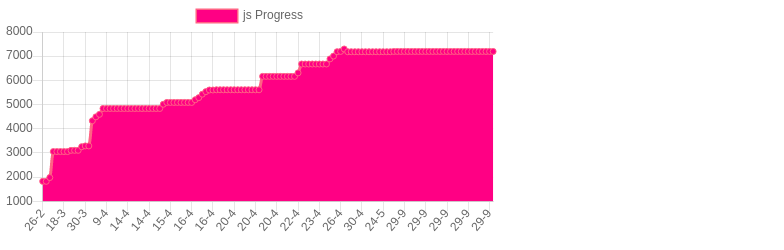
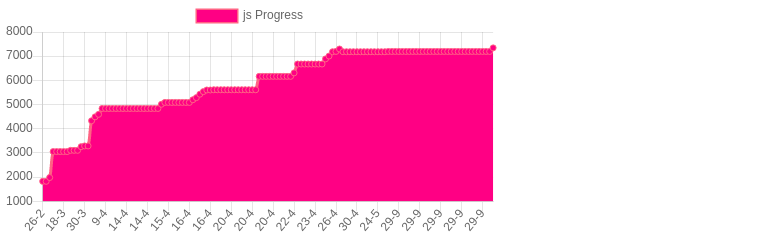
ruby and js

Changed region(s): [[0.0612, 0.812, 0.6429, 0.924], [0.0612, 0.14, 0.3367, 0.616], [0.3673, 0.14, 0.6429, 0.308]]

diff --git a/total.html b/total.html
@@ -9,7 +9,7 @@
         <script src="https://cdn.jsdelivr.net/npm/chart.js@2.8.0"></script>
         <script>
           var ctx = document.getElementById("total").getContext("2d");
-          const goLabelsDates = ["2021-02-27T01:37:43.112Z","2021-02-27T01:38:01.628Z","2021-03-01T13:41:18.753Z","2021-03-01T14:53:41.991Z","2021-03-01T15:08:00.851Z","2021-03-01T15:09:10.635Z","2021-03-01T15:22:55.385Z","2021-03-03T15:31:41.151Z","2021-03-05T14:02:13.446Z","2021-03-10T14:50:13.297Z","2021-03-11T01:54:03.424Z","2021-03-11T15:32:47.647Z","2021-03-11T16:01:51.191Z","2021-03-12T00:36:04.646Z","2021-03-13T00:14:58.179Z","2021-03-16T05:30:04.043Z","2021-03-17T21:17:52.181Z","2021-03-18T03:42:56.998Z","2021-03-18T03:44:29.834Z","2021-03-18T03:45:35.160Z","2021-03-18T03:45:54.668Z","2021-03-18T03:48:46.007Z","2021-03-18T05:10:54.427Z","2021-03-18T05:44:13.724Z","2021-03-18T05:56:11.032Z","2021-03-18T22:11:28.339Z","2021-03-19T11:28:55.383Z","2021-03-22T13:51:43.977Z","2021-03-23T01:52:09.452Z","2021-03-23T15:45:53.765Z","2021-03-24T01:46:02.104Z","2021-03-30T10:56:50.711Z","2021-04-01T15:03:17.764Z","2021-04-01T23:15:02.096Z","2021-04-07T19:21:55.040Z","2021-04-08T15:21:14.479Z","2021-04-09T23:17:58.037Z","2021-04-09T23:32:26.341Z","2021-04-09T23:34:42.049Z","2021-04-09T23:36:18.092Z","2021-04-10T01:45:40.218Z","2021-04-12T15:41:26.676Z","2021-04-14T02:00:41.039Z","2021-04-14T20:02:44.141Z","2021-04-14T21:14:15.821Z","2021-04-14T22:06:37.573Z","2021-04-14T22:42:14.693Z","2021-04-14T23:10:13.243Z","2021-04-14T23:22:54.824Z","2021-04-14T23:49:37.009Z","2021-04-15T02:28:51.974Z","2021-04-15T14:33:50.618Z","2021-04-15T15:09:11.104Z","2021-04-15T20:35:30.580Z","2021-04-16T00:04:33.158Z","2021-04-16T01:36:06.294Z","2021-04-16T01:53:35.992Z","2021-04-16T02:00:15.474Z","2021-04-16T16:08:40.977Z","2021-04-16T16:27:06.953Z","2021-04-16T16:59:30.526Z","2021-04-16T17:00:53.737Z","2021-04-16T23:14:36.283Z","2021-04-17T00:39:16.890Z","2021-04-17T01:11:09.986Z","2021-04-17T01:32:30.011Z","2021-04-17T01:44:22.446Z","2021-04-17T01:44:33.941Z","2021-04-17T02:35:55.774Z","2021-04-19T15:41:31.091Z","2021-04-20T15:32:32.239Z","2021-04-20T15:33:16.014Z","2021-04-20T15:36:11.438Z","2021-04-20T15:38:44.606Z","2021-04-20T15:41:50.350Z","2021-04-20T15:44:34.448Z","2021-04-20T15:46:49.295Z","2021-04-20T15:47:24.048Z","2021-04-20T15:56:22.046Z","2021-04-20T16:00:02.540Z","2021-04-20T16:01:15.511Z","2021-04-20T23:19:23.938Z","2021-04-21T00:40:54.443Z","2021-04-21T00:47:22.662Z","2021-04-21T02:01:09.006Z","2021-04-21T02:19:22.734Z","2021-04-21T15:53:36.038Z","2021-04-21T16:21:45.704Z","2021-04-21T16:26:32.790Z","2021-04-21T16:40:24.916Z","2021-04-21T16:43:40.235Z","2021-04-21T16:43:59.719Z","2021-04-21T16:44:40.304Z","2021-04-21T16:46:13.191Z","2021-04-21T16:48:41.898Z","2021-04-21T16:49:08.753Z","2021-04-21T16:50:32.397Z","2021-04-21T16:51:58.778Z","2021-04-23T00:49:32.826Z","2021-04-23T15:03:06.320Z","2021-04-23T15:04:13.039Z","2021-04-23T15:05:25.923Z","2021-04-23T15:11:04.285Z","2021-04-23T15:11:38.826Z","2021-04-23T15:12:05.618Z","2021-04-23T15:12:32.508Z","2021-04-23T15:13:17.058Z","2021-04-23T17:08:27.046Z","2021-04-23T18:02:30.357Z","2021-04-23T22:58:36.946Z","2021-04-23T23:00:26.027Z","2021-04-23T23:52:58.438Z","2021-04-24T01:12:51.525Z","2021-04-24T02:01:46.612Z","2021-04-26T12:46:47.336Z","2021-04-26T13:13:50.946Z","2021-04-26T13:16:04.473Z","2021-04-27T00:11:42.582Z","2021-04-30T03:26:37.101Z","2021-04-30T04:33:42.472Z","2021-04-30T05:15:42.646Z","2021-04-30T14:31:10.927Z","2021-05-04T01:51:49.907Z","2021-05-21T00:30:21.777Z","2021-05-24T15:07:09.579Z","2021-05-24T15:08:05.658Z","2021-05-24T15:22:20.903Z","2021-05-24T15:33:34.626Z","2021-05-24T15:46:16.101Z","2021-05-24T15:48:12.171Z","2021-05-24T15:53:54.498Z","2021-05-24T15:56:18.488Z","2021-05-28T22:50:32.914Z","2021-06-02T17:58:30.866Z","2021-07-01T05:04:25.826Z","2021-07-01T05:05:33.079Z","2021-09-03T16:56:54.023Z","2021-09-23T00:10:19.737Z","2021-09-23T00:54:30.987Z","2021-09-25T00:13:33.106Z","2021-09-25T00:56:09.874Z","2021-09-29T20:37:10.460Z","2021-09-29T20:39:45.107Z","2021-09-29T20:45:08.406Z","2021-09-29T20:45:42.995Z","2021-09-29T20:51:54.166Z","2021-09-29T21:04:45.487Z","2021-09-29T21:22:49.580Z","2021-09-29T21:23:34.860Z","2021-09-29T21:24:52.804Z","2021-09-29T21:25:12.938Z","2021-09-29T21:31:41.466Z","2021-09-29T21:32:02.856Z","2021-09-29T21:32:15.096Z","2021-09-29T21:37:01.273Z","2021-09-29T21:39:46.109Z","2021-09-29T21:40:23.862Z","2021-09-29T21:41:38.242Z","2021-09-29T21:45:36.053Z","2021-09-29T21:48:31.229Z","2021-09-29T21:49:46.414Z","2021-09-29T21:50:16.628Z","2021-09-29T21:52:23.035Z","2021-09-29T21:58:46.153Z","2021-09-29T21:59:06.075Z","2021-09-29T22:09:34.545Z","2021-09-29T22:24:59.487Z","2021-09-29T22:39:38.616Z","2021-09-29T23:07:40.178Z","2021-10-01T13:21:48.217Z","2021-10-01T14:11:47.682Z","2021-10-05T00:24:42.303Z",];
+          const goLabelsDates = ["2021-02-27T01:37:43.112Z","2021-02-27T01:38:01.628Z","2021-03-01T13:41:18.753Z","2021-03-01T14:53:41.991Z","2021-03-01T15:08:00.851Z","2021-03-01T15:09:10.635Z","2021-03-01T15:22:55.385Z","2021-03-03T15:31:41.151Z","2021-03-05T14:02:13.446Z","2021-03-10T14:50:13.297Z","2021-03-11T01:54:03.424Z","2021-03-11T15:32:47.647Z","2021-03-11T16:01:51.191Z","2021-03-12T00:36:04.646Z","2021-03-13T00:14:58.179Z","2021-03-16T05:30:04.043Z","2021-03-17T21:17:52.181Z","2021-03-18T03:42:56.998Z","2021-03-18T03:44:29.834Z","2021-03-18T03:45:35.160Z","2021-03-18T03:45:54.668Z","2021-03-18T03:48:46.007Z","2021-03-18T05:10:54.427Z","2021-03-18T05:44:13.724Z","2021-03-18T05:56:11.032Z","2021-03-18T22:11:28.339Z","2021-03-19T11:28:55.383Z","2021-03-22T13:51:43.977Z","2021-03-23T01:52:09.452Z","2021-03-23T15:45:53.765Z","2021-03-24T01:46:02.104Z","2021-03-30T10:56:50.711Z","2021-04-01T15:03:17.764Z","2021-04-01T23:15:02.096Z","2021-04-07T19:21:55.040Z","2021-04-08T15:21:14.479Z","2021-04-09T23:17:58.037Z","2021-04-09T23:32:26.341Z","2021-04-09T23:34:42.049Z","2021-04-09T23:36:18.092Z","2021-04-10T01:45:40.218Z","2021-04-12T15:41:26.676Z","2021-04-14T02:00:41.039Z","2021-04-14T20:02:44.141Z","2021-04-14T21:14:15.821Z","2021-04-14T22:06:37.573Z","2021-04-14T22:42:14.693Z","2021-04-14T23:10:13.243Z","2021-04-14T23:22:54.824Z","2021-04-14T23:49:37.009Z","2021-04-15T02:28:51.974Z","2021-04-15T14:33:50.618Z","2021-04-15T15:09:11.104Z","2021-04-15T20:35:30.580Z","2021-04-16T00:04:33.158Z","2021-04-16T01:36:06.294Z","2021-04-16T01:53:35.992Z","2021-04-16T02:00:15.474Z","2021-04-16T16:08:40.977Z","2021-04-16T16:27:06.953Z","2021-04-16T16:59:30.526Z","2021-04-16T17:00:53.737Z","2021-04-16T23:14:36.283Z","2021-04-17T00:39:16.890Z","2021-04-17T01:11:09.986Z","2021-04-17T01:32:30.011Z","2021-04-17T01:44:22.446Z","2021-04-17T01:44:33.941Z","2021-04-17T02:35:55.774Z","2021-04-19T15:41:31.091Z","2021-04-20T15:32:32.239Z","2021-04-20T15:33:16.014Z","2021-04-20T15:36:11.438Z","2021-04-20T15:38:44.606Z","2021-04-20T15:41:50.350Z","2021-04-20T15:44:34.448Z","2021-04-20T15:46:49.295Z","2021-04-20T15:47:24.048Z","2021-04-20T15:56:22.046Z","2021-04-20T16:00:02.540Z","2021-04-20T16:01:15.511Z","2021-04-20T23:19:23.938Z","2021-04-21T00:40:54.443Z","2021-04-21T00:47:22.662Z","2021-04-21T02:01:09.006Z","2021-04-21T02:19:22.734Z","2021-04-21T15:53:36.038Z","2021-04-21T16:21:45.704Z","2021-04-21T16:26:32.790Z","2021-04-21T16:40:24.916Z","2021-04-21T16:43:40.235Z","2021-04-21T16:43:59.719Z","2021-04-21T16:44:40.304Z","2021-04-21T16:46:13.191Z","2021-04-21T16:48:41.898Z","2021-04-21T16:49:08.753Z","2021-04-21T16:50:32.397Z","2021-04-21T16:51:58.778Z","2021-04-23T00:49:32.826Z","2021-04-23T15:03:06.320Z","2021-04-23T15:04:13.039Z","2021-04-23T15:05:25.923Z","2021-04-23T15:11:04.285Z","2021-04-23T15:11:38.826Z","2021-04-23T15:12:05.618Z","2021-04-23T15:12:32.508Z","2021-04-23T15:13:17.058Z","2021-04-23T17:08:27.046Z","2021-04-23T18:02:30.357Z","2021-04-23T22:58:36.946Z","2021-04-23T23:00:26.027Z","2021-04-23T23:52:58.438Z","2021-04-24T01:12:51.525Z","2021-04-24T02:01:46.612Z","2021-04-26T12:46:47.336Z","2021-04-26T13:13:50.946Z","2021-04-26T13:16:04.473Z","2021-04-27T00:11:42.582Z","2021-04-30T03:26:37.101Z","2021-04-30T04:33:42.472Z","2021-04-30T05:15:42.646Z","2021-04-30T14:31:10.927Z","2021-05-04T01:51:49.907Z","2021-05-21T00:30:21.777Z","2021-05-24T15:07:09.579Z","2021-05-24T15:08:05.658Z","2021-05-24T15:22:20.903Z","2021-05-24T15:33:34.626Z","2021-05-24T15:46:16.101Z","2021-05-24T15:48:12.171Z","2021-05-24T15:53:54.498Z","2021-05-24T15:56:18.488Z","2021-05-28T22:50:32.914Z","2021-06-02T17:58:30.866Z","2021-07-01T05:04:25.826Z","2021-07-01T05:05:33.079Z","2021-09-03T16:56:54.023Z","2021-09-23T00:10:19.737Z","2021-09-23T00:54:30.987Z","2021-09-25T00:13:33.106Z","2021-09-25T00:56:09.874Z","2021-09-29T20:37:10.460Z","2021-09-29T20:39:45.107Z","2021-09-29T20:45:08.406Z","2021-09-29T20:45:42.995Z","2021-09-29T20:51:54.166Z","2021-09-29T21:04:45.487Z","2021-09-29T21:22:49.580Z","2021-09-29T21:23:34.860Z","2021-09-29T21:24:52.804Z","2021-09-29T21:25:12.938Z","2021-09-29T21:31:41.466Z","2021-09-29T21:32:02.856Z","2021-09-29T21:32:15.096Z","2021-09-29T21:37:01.273Z","2021-09-29T21:39:46.109Z","2021-09-29T21:40:23.862Z","2021-09-29T21:41:38.242Z","2021-09-29T21:45:36.053Z","2021-09-29T21:48:31.229Z","2021-09-29T21:49:46.414Z","2021-09-29T21:50:16.628Z","2021-09-29T21:52:23.035Z","2021-09-29T21:58:46.153Z","2021-09-29T21:59:06.075Z","2021-09-29T22:09:34.545Z","2021-09-29T22:24:59.487Z","2021-09-29T22:39:38.616Z","2021-09-29T23:07:40.178Z","2021-10-01T13:21:48.217Z","2021-10-01T14:11:47.682Z","2021-10-05T00:24:42.303Z","2021-10-05T14:36:34.233Z","2021-10-05T15:30:47.628Z",];
           var chart = new Chart(ctx, {
             type: 'line',
             data: {
@@ -18,7 +18,7 @@
                 label: 'total Progress',
                 backgroundColor: 'rgb(255, 0, 132)',
                 borderColor: 'rgb(255, 99, 132)',
-                data: [7975,7975,8307,8526,8526,8527,8573,9171,9358,9751,9908,10232,10231,10643,10911,11353,12576,12666,0,0,169,12835,12906,12953,12953,13141,13254,13354,13406,13417,13568,13708,13845,14886,15140,15267,15766,15777,15777,15777,16211,16345,17062,17247,17324,17464,17697,17849,17916,18002,18002,18202,18292,18515,18590,18744,18837,18876,19030,19086,19114,19143,19378,19465,19607,19714,19782,19782,19791,20220,20257,20257,20257,20257,20257,20257,20257,20257,20257,20257,20257,21179,21238,21279,21319,21319,21430,21506,21543,65995,0,44452,44452,44452,20233,20233,1629,23172,23326,23693,23693,23693,23693,23693,23693,23693,23693,23693,23693,23693,23693,23905,24023,24262,24275,24376,24376,24452,25078,25182,25238,25232,25233,25334,23696,25427,25453,25466,25491,11565,5707,5707,4421,4535,4535,3678,3678,3678,5861,5318,5422,5473,12667,12667,12667,12667,12667,12667,12667,12667,12667,12667,12667,12667,12667,12667,12667,12667,12667,12667,12658,12658,12657,12657,12657,12657,12683,12736,12779,12888,2619,2775,]
+                data: [7975,7975,8307,8526,8526,8527,8573,9171,9358,9751,9908,10232,10231,10643,10911,11353,12576,12666,0,0,169,12835,12906,12953,12953,13141,13254,13354,13406,13417,13568,13708,13845,14886,15140,15267,15766,15777,15777,15777,16211,16345,17062,17247,17324,17464,17697,17849,17916,18002,18002,18202,18292,18515,18590,18744,18837,18876,19030,19086,19114,19143,19378,19465,19607,19714,19782,19782,19791,20220,20257,20257,20257,20257,20257,20257,20257,20257,20257,20257,20257,21179,21238,21279,21319,21319,21430,21506,21543,65995,0,44452,44452,44452,20233,20233,1629,23172,23326,23693,23693,23693,23693,23693,23693,23693,23693,23693,23693,23693,23693,23905,24023,24262,24275,24376,24376,24452,25078,25182,25238,25232,25233,25334,23696,25427,25453,25466,25491,11565,5707,5707,4421,4535,4535,3678,3678,3678,5861,5318,5422,5473,12667,12667,12667,12667,12667,12667,12667,12667,12667,12667,12667,12667,12667,12667,12667,12667,12667,12667,12658,12658,12657,12657,12657,12657,12683,12736,12779,12888,2619,2775,9772,9922,]
               }]
             },
           });

diff --git a/js.html b/js.html
@@ -9,7 +9,7 @@
         <script src="https://cdn.jsdelivr.net/npm/chart.js@2.8.0"></script>
         <script>
           var ctx = document.getElementById("js").getContext("2d");
-          const goLabelsDates = ["2021-02-27T01:37:43.110Z","2021-02-27T01:38:01.626Z","2021-03-11T01:54:03.422Z","2021-03-17T21:17:52.179Z","2021-03-18T05:44:13.723Z","2021-03-18T05:56:11.032Z","2021-03-18T22:11:28.338Z","2021-03-19T11:28:55.382Z","2021-03-22T13:51:43.976Z","2021-03-23T01:52:09.451Z","2021-03-23T15:45:53.764Z","2021-03-24T01:46:02.103Z","2021-03-30T10:56:50.709Z","2021-04-01T15:03:17.762Z","2021-04-01T23:15:02.094Z","2021-04-07T19:21:55.038Z","2021-04-08T15:21:14.478Z","2021-04-09T23:17:58.035Z","2021-04-09T23:32:26.339Z","2021-04-09T23:34:42.047Z","2021-04-09T23:36:18.091Z","2021-04-10T01:45:40.217Z","2021-04-12T15:41:26.675Z","2021-04-14T02:00:41.038Z","2021-04-14T20:02:44.140Z","2021-04-14T21:14:15.820Z","2021-04-14T22:06:37.572Z","2021-04-14T22:42:14.692Z","2021-04-14T23:10:13.242Z","2021-04-14T23:22:54.823Z","2021-04-14T23:49:37.008Z","2021-04-15T02:28:51.973Z","2021-04-15T14:33:50.618Z","2021-04-15T15:09:11.102Z","2021-04-15T20:35:30.579Z","2021-04-16T00:04:33.157Z","2021-04-16T01:36:06.293Z","2021-04-16T01:53:35.990Z","2021-04-16T02:00:15.472Z","2021-04-16T16:08:40.975Z","2021-04-16T16:27:06.951Z","2021-04-16T16:59:30.524Z","2021-04-16T17:00:53.732Z","2021-04-16T23:14:36.282Z","2021-04-17T00:39:16.888Z","2021-04-17T01:11:09.984Z","2021-04-17T01:32:30.007Z","2021-04-17T01:44:22.442Z","2021-04-17T01:44:33.939Z","2021-04-17T02:35:55.772Z","2021-04-19T15:41:31.090Z","2021-04-20T15:32:32.237Z","2021-04-20T15:33:16.013Z","2021-04-20T15:36:11.437Z","2021-04-20T15:38:44.605Z","2021-04-20T15:41:50.349Z","2021-04-20T15:44:34.447Z","2021-04-20T15:46:49.293Z","2021-04-20T15:47:24.046Z","2021-04-20T15:56:22.045Z","2021-04-20T16:00:02.539Z","2021-04-20T16:01:15.510Z","2021-04-20T23:19:23.937Z","2021-04-21T00:40:54.442Z","2021-04-21T00:47:22.661Z","2021-04-21T02:01:09.004Z","2021-04-21T02:19:22.733Z","2021-04-21T15:53:36.037Z","2021-04-21T16:21:45.703Z","2021-04-21T16:26:32.789Z","2021-04-21T16:40:24.915Z","2021-04-21T16:51:58.777Z","2021-04-23T00:49:32.825Z","2021-04-23T15:03:06.327Z","2021-04-23T15:04:13.044Z","2021-04-23T15:05:25.922Z","2021-04-23T15:13:17.062Z","2021-04-23T17:08:27.043Z","2021-04-23T18:02:30.352Z","2021-04-23T22:58:36.943Z","2021-04-23T23:00:26.025Z","2021-04-23T23:52:58.436Z","2021-04-24T01:12:51.523Z","2021-04-24T02:01:46.609Z","2021-04-26T12:46:47.335Z","2021-04-26T13:13:50.943Z","2021-04-26T13:16:04.470Z","2021-04-27T00:11:42.579Z","2021-04-30T03:26:37.096Z","2021-04-30T04:33:42.471Z","2021-04-30T05:15:42.644Z","2021-04-30T14:31:10.924Z","2021-05-04T01:51:49.905Z","2021-05-21T00:30:21.768Z","2021-05-24T15:07:09.571Z","2021-05-24T15:08:05.656Z","2021-05-24T15:22:20.900Z","2021-05-24T15:33:34.624Z","2021-05-24T15:46:16.099Z","2021-09-29T20:39:45.105Z","2021-09-29T20:45:08.404Z","2021-09-29T20:45:42.992Z","2021-09-29T20:51:54.164Z","2021-09-29T21:04:45.485Z","2021-09-29T21:22:49.578Z","2021-09-29T21:23:34.858Z","2021-09-29T21:24:52.802Z","2021-09-29T21:25:12.936Z","2021-09-29T21:31:41.463Z","2021-09-29T21:32:02.853Z","2021-09-29T21:32:15.093Z","2021-09-29T21:36:24.777Z","2021-09-29T21:37:01.271Z","2021-09-29T21:39:46.105Z","2021-09-29T21:40:23.859Z","2021-09-29T21:41:38.228Z","2021-09-29T21:45:36.048Z","2021-09-29T21:48:31.220Z","2021-09-29T21:49:46.410Z","2021-09-29T21:50:16.622Z","2021-09-29T21:52:23.030Z","2021-09-29T21:58:46.149Z","2021-09-29T21:59:06.071Z","2021-09-29T22:09:34.540Z","2021-09-29T22:24:59.483Z","2021-09-29T22:39:38.612Z","2021-09-29T23:07:40.174Z","2021-10-01T13:21:48.212Z",];
+          const goLabelsDates = ["2021-02-27T01:37:43.110Z","2021-02-27T01:38:01.626Z","2021-03-11T01:54:03.422Z","2021-03-17T21:17:52.179Z","2021-03-18T05:44:13.723Z","2021-03-18T05:56:11.032Z","2021-03-18T22:11:28.338Z","2021-03-19T11:28:55.382Z","2021-03-22T13:51:43.976Z","2021-03-23T01:52:09.451Z","2021-03-23T15:45:53.764Z","2021-03-24T01:46:02.103Z","2021-03-30T10:56:50.709Z","2021-04-01T15:03:17.762Z","2021-04-01T23:15:02.094Z","2021-04-07T19:21:55.038Z","2021-04-08T15:21:14.478Z","2021-04-09T23:17:58.035Z","2021-04-09T23:32:26.339Z","2021-04-09T23:34:42.047Z","2021-04-09T23:36:18.091Z","2021-04-10T01:45:40.217Z","2021-04-12T15:41:26.675Z","2021-04-14T02:00:41.038Z","2021-04-14T20:02:44.140Z","2021-04-14T21:14:15.820Z","2021-04-14T22:06:37.572Z","2021-04-14T22:42:14.692Z","2021-04-14T23:10:13.242Z","2021-04-14T23:22:54.823Z","2021-04-14T23:49:37.008Z","2021-04-15T02:28:51.973Z","2021-04-15T14:33:50.618Z","2021-04-15T15:09:11.102Z","2021-04-15T20:35:30.579Z","2021-04-16T00:04:33.157Z","2021-04-16T01:36:06.293Z","2021-04-16T01:53:35.990Z","2021-04-16T02:00:15.472Z","2021-04-16T16:08:40.975Z","2021-04-16T16:27:06.951Z","2021-04-16T16:59:30.524Z","2021-04-16T17:00:53.732Z","2021-04-16T23:14:36.282Z","2021-04-17T00:39:16.888Z","2021-04-17T01:11:09.984Z","2021-04-17T01:32:30.007Z","2021-04-17T01:44:22.442Z","2021-04-17T01:44:33.939Z","2021-04-17T02:35:55.772Z","2021-04-19T15:41:31.090Z","2021-04-20T15:32:32.237Z","2021-04-20T15:33:16.013Z","2021-04-20T15:36:11.437Z","2021-04-20T15:38:44.605Z","2021-04-20T15:41:50.349Z","2021-04-20T15:44:34.447Z","2021-04-20T15:46:49.293Z","2021-04-20T15:47:24.046Z","2021-04-20T15:56:22.045Z","2021-04-20T16:00:02.539Z","2021-04-20T16:01:15.510Z","2021-04-20T23:19:23.937Z","2021-04-21T00:40:54.442Z","2021-04-21T00:47:22.661Z","2021-04-21T02:01:09.004Z","2021-04-21T02:19:22.733Z","2021-04-21T15:53:36.037Z","2021-04-21T16:21:45.703Z","2021-04-21T16:26:32.789Z","2021-04-21T16:40:24.915Z","2021-04-21T16:51:58.777Z","2021-04-23T00:49:32.825Z","2021-04-23T15:03:06.327Z","2021-04-23T15:04:13.044Z","2021-04-23T15:05:25.922Z","2021-04-23T15:13:17.062Z","2021-04-23T17:08:27.043Z","2021-04-23T18:02:30.352Z","2021-04-23T22:58:36.943Z","2021-04-23T23:00:26.025Z","2021-04-23T23:52:58.436Z","2021-04-24T01:12:51.523Z","2021-04-24T02:01:46.609Z","2021-04-26T12:46:47.335Z","2021-04-26T13:13:50.943Z","2021-04-26T13:16:04.470Z","2021-04-27T00:11:42.579Z","2021-04-30T03:26:37.096Z","2021-04-30T04:33:42.471Z","2021-04-30T05:15:42.644Z","2021-04-30T14:31:10.924Z","2021-05-04T01:51:49.905Z","2021-05-21T00:30:21.768Z","2021-05-24T15:07:09.571Z","2021-05-24T15:08:05.656Z","2021-05-24T15:22:20.900Z","2021-05-24T15:33:34.624Z","2021-05-24T15:46:16.099Z","2021-09-29T20:39:45.105Z","2021-09-29T20:45:08.404Z","2021-09-29T20:45:42.992Z","2021-09-29T20:51:54.164Z","2021-09-29T21:04:45.485Z","2021-09-29T21:22:49.578Z","2021-09-29T21:23:34.858Z","2021-09-29T21:24:52.802Z","2021-09-29T21:25:12.936Z","2021-09-29T21:31:41.463Z","2021-09-29T21:32:02.853Z","2021-09-29T21:32:15.093Z","2021-09-29T21:36:24.777Z","2021-09-29T21:37:01.271Z","2021-09-29T21:39:46.105Z","2021-09-29T21:40:23.859Z","2021-09-29T21:41:38.228Z","2021-09-29T21:45:36.048Z","2021-09-29T21:48:31.220Z","2021-09-29T21:49:46.410Z","2021-09-29T21:50:16.622Z","2021-09-29T21:52:23.030Z","2021-09-29T21:58:46.149Z","2021-09-29T21:59:06.071Z","2021-09-29T22:09:34.540Z","2021-09-29T22:24:59.483Z","2021-09-29T22:39:38.612Z","2021-09-29T23:07:40.174Z","2021-10-01T13:21:48.212Z","2021-10-05T14:36:34.229Z","2021-10-05T15:30:47.625Z",];
           var chart = new Chart(ctx, {
             type: 'line',
             data: {
@@ -18,7 +18,7 @@
                 label: 'js Progress',
                 backgroundColor: 'rgb(255, 0, 132)',
                 borderColor: 'rgb(255, 99, 132)',
-                data: [1822,1822,1979,3053,3053,3053,3053,3053,3104,3104,3104,3255,3287,3287,4328,4490,4593,4835,4835,4835,4835,4835,4835,4835,4835,4835,4835,4835,4835,4835,4835,4835,4835,4835,5010,5085,5085,5085,5085,5085,5085,5085,5085,5197,5284,5426,5533,5601,5601,5610,5610,5610,5610,5610,5610,5610,5610,5610,5610,5610,5610,5610,6164,6164,6164,6164,6164,6164,6164,6164,6164,6164,6308,6675,6675,6675,6675,6675,6675,6675,6675,6887,7005,7183,7196,7297,7183,7183,7183,7183,7183,7183,7183,7183,7183,7183,7183,7183,7183,7194,7194,7194,7194,7194,7194,7194,7194,7194,7194,7194,7194,7194,7194,7194,7194,7194,7194,7194,7194,7194,7194,7194,7194,7194,7194,7194,7194,7194,]
+                data: [1822,1822,1979,3053,3053,3053,3053,3053,3104,3104,3104,3255,3287,3287,4328,4490,4593,4835,4835,4835,4835,4835,4835,4835,4835,4835,4835,4835,4835,4835,4835,4835,4835,4835,5010,5085,5085,5085,5085,5085,5085,5085,5085,5197,5284,5426,5533,5601,5601,5610,5610,5610,5610,5610,5610,5610,5610,5610,5610,5610,5610,5610,6164,6164,6164,6164,6164,6164,6164,6164,6164,6164,6308,6675,6675,6675,6675,6675,6675,6675,6675,6887,7005,7183,7196,7297,7183,7183,7183,7183,7183,7183,7183,7183,7183,7183,7183,7183,7183,7194,7194,7194,7194,7194,7194,7194,7194,7194,7194,7194,7194,7194,7194,7194,7194,7194,7194,7194,7194,7194,7194,7194,7194,7194,7194,7194,7194,7194,7194,7344,]
               }]
             },
           });

diff --git a/ruby.html b/ruby.html
@@ -9,7 +9,7 @@
         <script src="https://cdn.jsdelivr.net/npm/chart.js@2.8.0"></script>
         <script>
           var ctx = document.getElementById("ruby").getContext("2d");
-          const goLabelsDates = ["2021-02-27T01:37:43.111Z","2021-02-27T01:38:01.627Z","2021-03-03T15:31:41.151Z","2021-03-12T00:36:04.646Z","2021-03-13T00:14:58.178Z","2021-03-16T05:30:04.043Z","2021-03-18T05:44:13.724Z","2021-03-18T05:56:11.032Z","2021-03-18T22:11:28.339Z","2021-03-19T11:28:55.382Z","2021-03-22T13:51:43.976Z","2021-03-23T01:52:09.451Z","2021-03-23T15:45:53.764Z","2021-03-24T01:46:02.103Z","2021-03-30T10:56:50.710Z","2021-04-01T15:03:17.763Z","2021-04-01T23:15:02.095Z","2021-04-07T19:21:55.039Z","2021-04-08T15:21:14.478Z","2021-04-09T23:17:58.036Z","2021-04-09T23:32:26.340Z","2021-04-09T23:34:42.048Z","2021-04-09T23:36:18.092Z","2021-04-10T01:45:40.217Z","2021-04-12T15:41:26.675Z","2021-04-14T02:00:41.039Z","2021-04-14T20:02:44.140Z","2021-04-14T21:14:15.820Z","2021-04-14T22:06:37.573Z","2021-04-14T22:42:14.693Z","2021-04-14T23:10:13.243Z","2021-04-14T23:22:54.824Z","2021-04-14T23:49:37.009Z","2021-04-15T02:28:51.974Z","2021-04-15T14:33:50.618Z","2021-04-15T15:09:11.103Z","2021-04-15T20:35:30.579Z","2021-04-16T00:04:33.157Z","2021-04-16T01:36:06.293Z","2021-04-16T01:53:35.991Z","2021-04-16T02:00:15.473Z","2021-04-16T16:08:40.976Z","2021-04-16T16:27:06.952Z","2021-04-16T16:59:30.525Z","2021-04-16T17:00:53.733Z","2021-04-16T23:14:36.282Z","2021-04-17T00:39:16.888Z","2021-04-17T01:11:09.985Z","2021-04-17T01:32:30.008Z","2021-04-17T01:44:22.445Z","2021-04-17T01:44:33.940Z","2021-04-17T02:35:55.773Z","2021-04-19T15:41:31.090Z","2021-04-20T15:32:32.238Z","2021-04-20T15:33:16.013Z","2021-04-20T15:36:11.438Z","2021-04-20T15:38:44.605Z","2021-04-20T15:41:50.349Z","2021-04-20T15:44:34.447Z","2021-04-20T15:46:49.294Z","2021-04-20T15:47:24.047Z","2021-04-20T15:56:22.045Z","2021-04-20T16:00:02.539Z","2021-04-20T16:01:15.511Z","2021-04-20T23:19:23.937Z","2021-04-21T00:40:54.442Z","2021-04-21T00:47:22.661Z","2021-04-21T02:01:09.005Z","2021-04-21T02:19:22.734Z","2021-04-21T15:53:36.037Z","2021-04-21T16:21:45.703Z","2021-04-21T16:26:32.789Z","2021-04-21T16:40:24.916Z","2021-04-21T16:51:58.777Z","2021-04-23T00:49:32.825Z","2021-04-23T15:03:06.327Z","2021-04-23T15:04:13.044Z","2021-04-23T15:05:25.923Z","2021-04-23T15:13:17.062Z","2021-04-23T17:08:27.045Z","2021-04-23T18:02:30.355Z","2021-04-23T22:58:36.945Z","2021-04-23T23:00:26.027Z","2021-04-23T23:52:58.438Z","2021-04-24T01:12:51.524Z","2021-04-24T02:01:46.611Z","2021-04-26T12:46:47.335Z","2021-04-26T13:13:50.945Z","2021-04-26T13:16:04.472Z","2021-04-27T00:11:42.580Z","2021-04-30T03:26:37.099Z","2021-04-30T04:33:42.472Z","2021-04-30T05:15:42.646Z","2021-04-30T14:31:10.926Z","2021-05-04T01:51:49.906Z","2021-05-21T00:30:21.773Z","2021-05-24T15:07:09.574Z","2021-05-24T15:08:05.657Z","2021-05-24T15:22:20.902Z","2021-05-24T15:33:34.625Z","2021-05-24T15:46:16.101Z","2021-05-24T15:48:12.170Z","2021-10-05T00:24:42.299Z",];
+          const goLabelsDates = ["2021-02-27T01:37:43.111Z","2021-02-27T01:38:01.627Z","2021-03-03T15:31:41.151Z","2021-03-12T00:36:04.646Z","2021-03-13T00:14:58.178Z","2021-03-16T05:30:04.043Z","2021-03-18T05:44:13.724Z","2021-03-18T05:56:11.032Z","2021-03-18T22:11:28.339Z","2021-03-19T11:28:55.382Z","2021-03-22T13:51:43.976Z","2021-03-23T01:52:09.451Z","2021-03-23T15:45:53.764Z","2021-03-24T01:46:02.103Z","2021-03-30T10:56:50.710Z","2021-04-01T15:03:17.763Z","2021-04-01T23:15:02.095Z","2021-04-07T19:21:55.039Z","2021-04-08T15:21:14.478Z","2021-04-09T23:17:58.036Z","2021-04-09T23:32:26.340Z","2021-04-09T23:34:42.048Z","2021-04-09T23:36:18.092Z","2021-04-10T01:45:40.217Z","2021-04-12T15:41:26.675Z","2021-04-14T02:00:41.039Z","2021-04-14T20:02:44.140Z","2021-04-14T21:14:15.820Z","2021-04-14T22:06:37.573Z","2021-04-14T22:42:14.693Z","2021-04-14T23:10:13.243Z","2021-04-14T23:22:54.824Z","2021-04-14T23:49:37.009Z","2021-04-15T02:28:51.974Z","2021-04-15T14:33:50.618Z","2021-04-15T15:09:11.103Z","2021-04-15T20:35:30.579Z","2021-04-16T00:04:33.157Z","2021-04-16T01:36:06.293Z","2021-04-16T01:53:35.991Z","2021-04-16T02:00:15.473Z","2021-04-16T16:08:40.976Z","2021-04-16T16:27:06.952Z","2021-04-16T16:59:30.525Z","2021-04-16T17:00:53.733Z","2021-04-16T23:14:36.282Z","2021-04-17T00:39:16.888Z","2021-04-17T01:11:09.985Z","2021-04-17T01:32:30.008Z","2021-04-17T01:44:22.445Z","2021-04-17T01:44:33.940Z","2021-04-17T02:35:55.773Z","2021-04-19T15:41:31.090Z","2021-04-20T15:32:32.238Z","2021-04-20T15:33:16.013Z","2021-04-20T15:36:11.438Z","2021-04-20T15:38:44.605Z","2021-04-20T15:41:50.349Z","2021-04-20T15:44:34.447Z","2021-04-20T15:46:49.294Z","2021-04-20T15:47:24.047Z","2021-04-20T15:56:22.045Z","2021-04-20T16:00:02.539Z","2021-04-20T16:01:15.511Z","2021-04-20T23:19:23.937Z","2021-04-21T00:40:54.442Z","2021-04-21T00:47:22.661Z","2021-04-21T02:01:09.005Z","2021-04-21T02:19:22.734Z","2021-04-21T15:53:36.037Z","2021-04-21T16:21:45.703Z","2021-04-21T16:26:32.789Z","2021-04-21T16:40:24.916Z","2021-04-21T16:51:58.777Z","2021-04-23T00:49:32.825Z","2021-04-23T15:03:06.327Z","2021-04-23T15:04:13.044Z","2021-04-23T15:05:25.923Z","2021-04-23T15:13:17.062Z","2021-04-23T17:08:27.045Z","2021-04-23T18:02:30.355Z","2021-04-23T22:58:36.945Z","2021-04-23T23:00:26.027Z","2021-04-23T23:52:58.438Z","2021-04-24T01:12:51.524Z","2021-04-24T02:01:46.611Z","2021-04-26T12:46:47.335Z","2021-04-26T13:13:50.945Z","2021-04-26T13:16:04.472Z","2021-04-27T00:11:42.580Z","2021-04-30T03:26:37.099Z","2021-04-30T04:33:42.472Z","2021-04-30T05:15:42.646Z","2021-04-30T14:31:10.926Z","2021-05-04T01:51:49.906Z","2021-05-21T00:30:21.773Z","2021-05-24T15:07:09.574Z","2021-05-24T15:08:05.657Z","2021-05-24T15:22:20.902Z","2021-05-24T15:33:34.625Z","2021-05-24T15:46:16.101Z","2021-05-24T15:48:12.170Z","2021-10-05T00:24:42.299Z","2021-10-05T14:36:34.230Z","2021-10-05T15:30:47.625Z",];
           var chart = new Chart(ctx, {
             type: 'line',
             data: {
@@ -18,7 +18,7 @@
                 label: 'ruby Progress',
                 backgroundColor: 'rgb(255, 0, 132)',
                 borderColor: 'rgb(255, 99, 132)',
-                data: [810,810,1056,1469,1737,1875,1908,1908,1908,1908,1938,1960,1960,1960,2005,2083,2083,2083,2083,2157,2168,2168,2168,2168,2168,2168,2168,2168,2168,2168,2168,2168,2168,2168,2168,2168,2168,2168,2168,2168,2168,2168,2168,2168,2168,2168,2168,2168,2168,2168,2168,2168,2168,2168,2168,2168,2168,2168,2168,2168,2168,2168,2168,2168,2168,2168,2168,2168,2168,2168,2168,2168,2168,2168,2168,2168,2168,2168,2168,2168,2168,2168,2168,2168,2168,2168,2168,2168,2168,2168,2168,2168,2168,2168,2168,2168,2168,2168,2168,2168,2168,2168,2578,]
+                data: [810,810,1056,1469,1737,1875,1908,1908,1908,1908,1938,1960,1960,1960,2005,2083,2083,2083,2083,2157,2168,2168,2168,2168,2168,2168,2168,2168,2168,2168,2168,2168,2168,2168,2168,2168,2168,2168,2168,2168,2168,2168,2168,2168,2168,2168,2168,2168,2168,2168,2168,2168,2168,2168,2168,2168,2168,2168,2168,2168,2168,2168,2168,2168,2168,2168,2168,2168,2168,2168,2168,2168,2168,2168,2168,2168,2168,2168,2168,2168,2168,2168,2168,2168,2168,2168,2168,2168,2168,2168,2168,2168,2168,2168,2168,2168,2168,2168,2168,2168,2168,2168,2578,2578,2578,]
               }]
             },
           });

diff --git a/config.js b/config.js
@@ -26,22 +26,22 @@ const configLn = [
     src: ['../../react/react-shopping-cart'],
     goal: 2000
   }, */
-  /* {
+  {
     ln: 'js',
     title: "JavaScript",
     subjects: [
-      "react, ", "angular, sequelize, mongoose, prisma, node js."
+      "react, ", "node, sequelize, orm, mongodb."
     ],
     goal: 7000
-  }, */
-  {
+  },
+  /* {
     ln: 'react',
     title: "React",
     subjects: [
       "Testing, builds"
     ],
     goal: 1000
-  },
+  }, */
   /*  {
      ln: 'ts',
      title: "TS",
@@ -86,12 +86,12 @@ const configLn = [
     subjects: ["collections", ""],
     goal: 2000
   }, */
-  {
+  /* {
     ln: 'ruby',
     title: "ruby",
     subjects: ["migrations", "ruby on rails", "presenters", "models"],
     goal: 2000
-  },
+  }, */
   /* {
     ln: 'sql',
     title: "sql",

diff --git a/Readme.md b/Readme.md
@@ -1,12 +1,12 @@
 # All count
 |Language|Goal|Lines%|%|%|%|Subjects|
 |----------|-------|-------|--------|--------|--------|--------|
+|js|10000|7344|73|![js](https://raw.githubusercontent.com/kapit4n/l-10000-dev/master/js.png)|react, , node, sequelize, orm, mongodb.|aws sdk, enzyme, node google cloud, node rest, node tips and tricks|
 |ruby|10000|2578|26|![ruby](https://raw.githubusercontent.com/kapit4n/l-10000-dev/master/ruby.png)|migrations, ruby on rails, presenters, models|ruby rails controllers, ruby rails models|
-|react|1000|197|20|![react](https://raw.githubusercontent.com/kapit4n/l-10000-dev/master/react.png)|Testing, builds|react hooks tips, components|
-|TOTAL|2775|13.875%|
+|TOTAL|9922|49.610%|
 10/02(0)
 
-10/03(2775)
+10/03(9922)
 
 
   # run it
@@ -29,4 +29,4 @@
   * Angular, React, Vue
   * Spring, Play
   * Scala, Java
-  , 2021-10-05T00:24:42.304Z
+  , 2021-10-05T15:30:47.628Z
